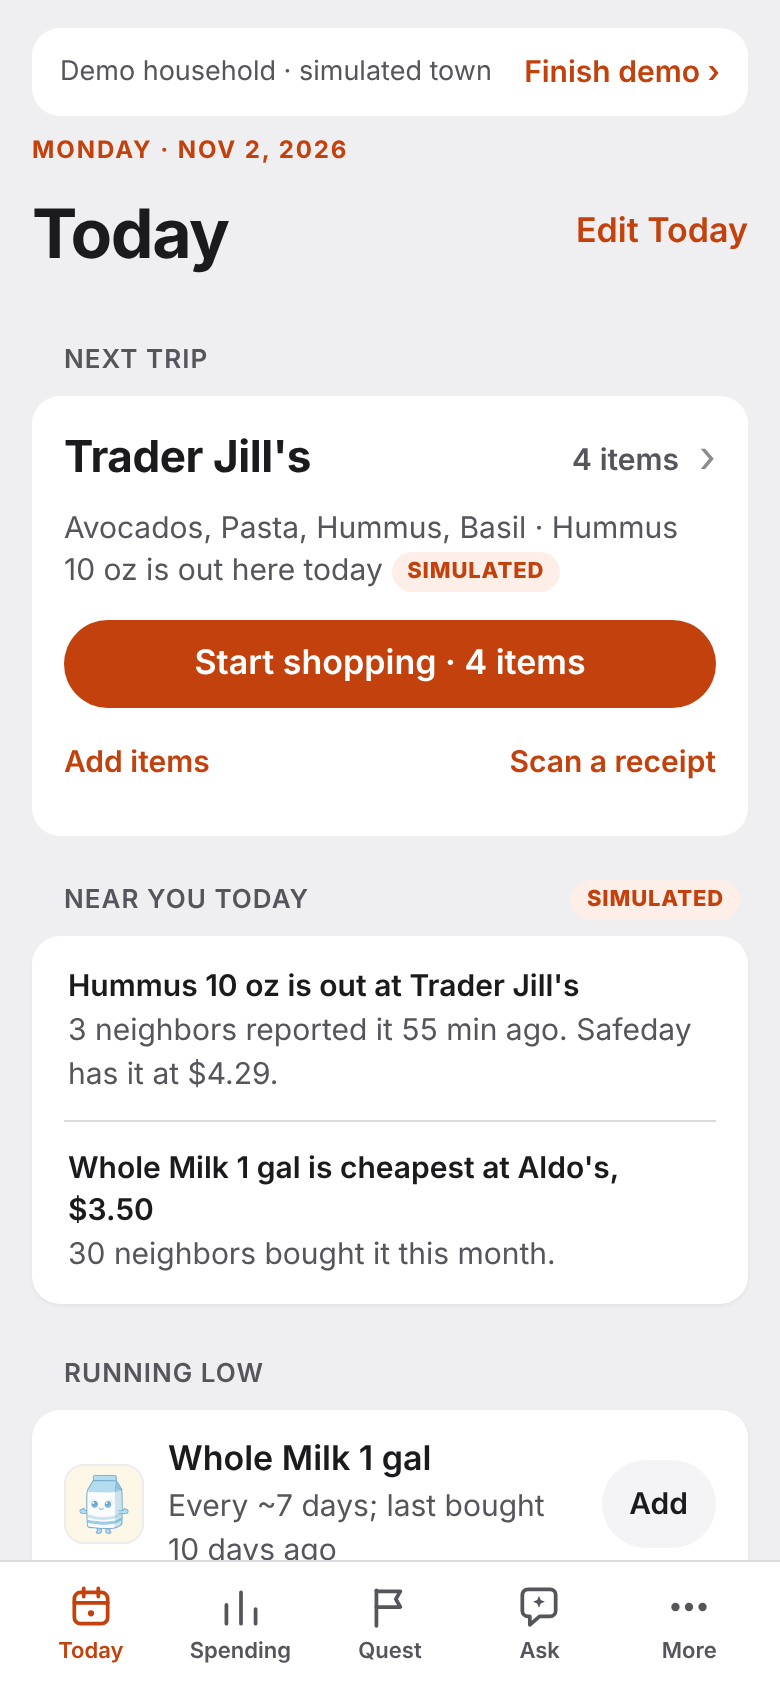
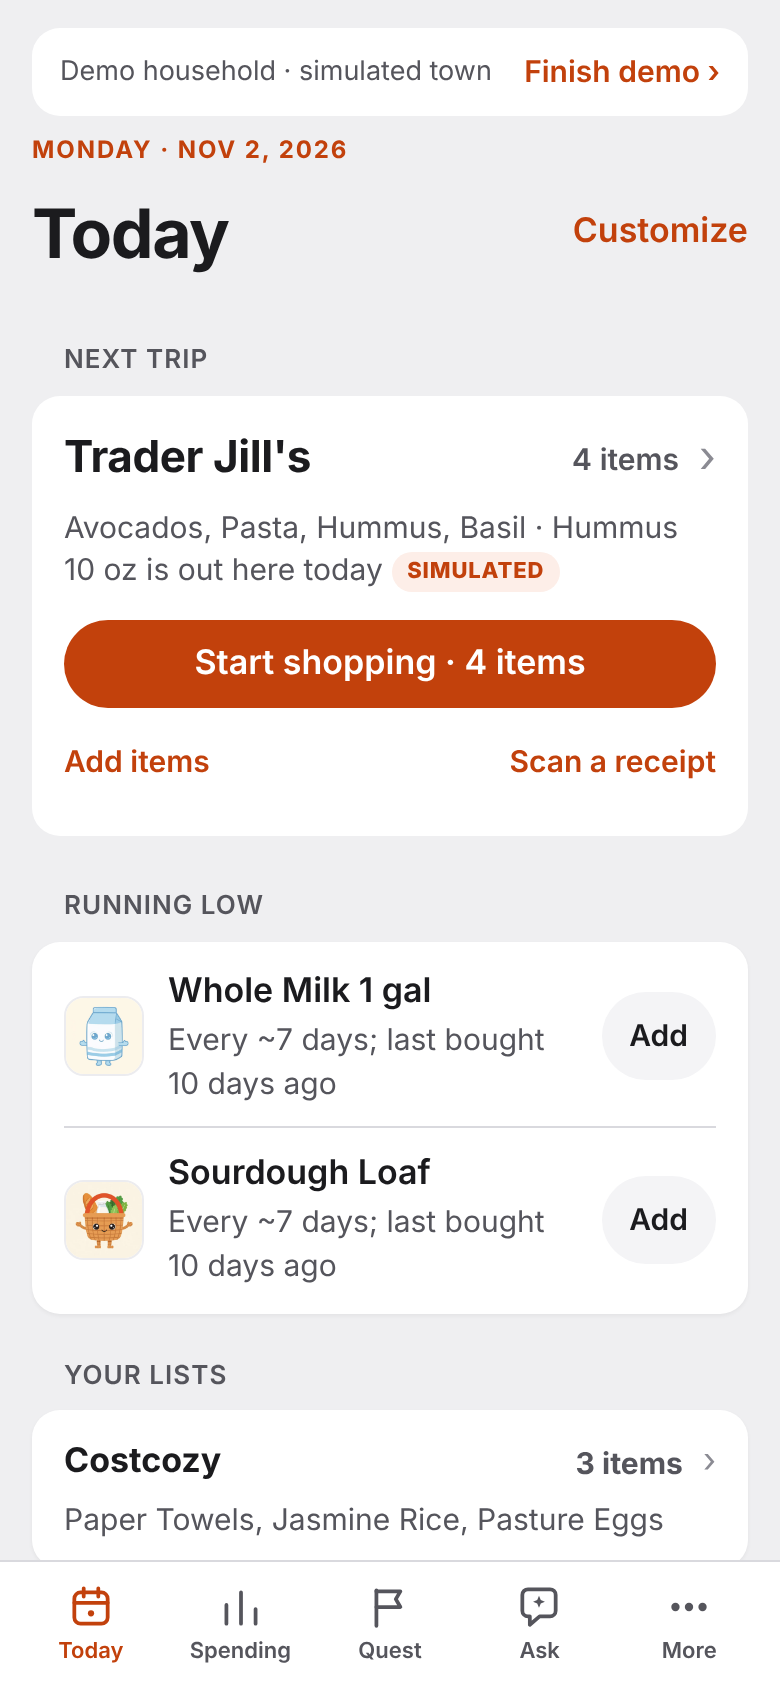
docs: refresh README Today screenshot (Customize, no prices) (#468)
Claude-Session: https://claude.ai/code/session_0155vpoVYDcWNTfoi1esWcw6

diff --git a/README.md b/README.md
@@ -20,7 +20,7 @@
 - **What it uses.** Meta's models: Muse Spark reads receipts and answers questions, Muse Wonder re-reads the hard ones, SAM 3.1 finds shelves in a store scan, Muse Voice Transcribe takes dictation, Muse Image drew the Quest characters and Muse Spark Open helps judge staples. [Model map](JUDGES.md#meta-model-map)
 
 <p align="center">
-  <img src="docs/images/today.png" alt="Today: what is running low, store alerts, what to use soon" width="230">
+  <img src="docs/images/today.png" alt="Today: next trip, what is running low, your lists" width="230">
   <img src="docs/images/lists.png" alt="Lists: one card per store list, with suggestions" width="230">
 </p>
 <p align="center"><em>Today and Lists in the demo household (a simulated neighborhood, labelled as such).</em></p>

diff --git a/assistant/loops/2026-11-02-readme-screens.md b/assistant/loops/2026-11-02-readme-screens.md
@@ -1,0 +1,5 @@
+# 2026-11-02 README screenshot refresh
+
+- Ask (coordinator, follow-up to #467): refresh README/JUDGES screenshots that show "Edit Today" or store prices.
+- Only docs/images/today.png and lists.png are used (README). Lists was already current. Today retaken from a main build in the demo at 390x844 @2x: says "Customize", "Near you today" price card hidden for the shot, so Running low shows instead.
+- README alt text for Today updated to match what the shot shows.
